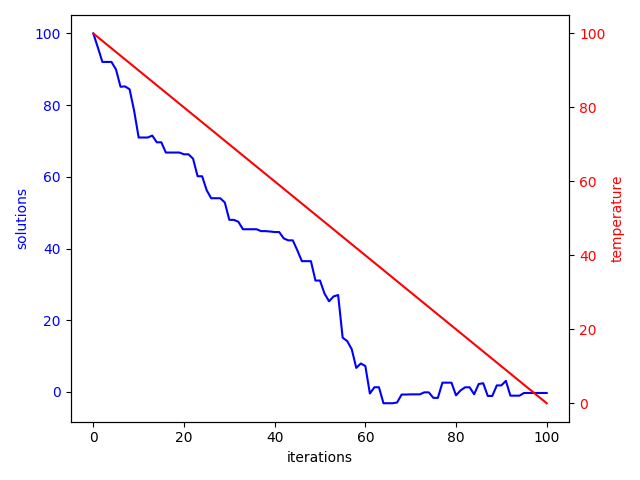
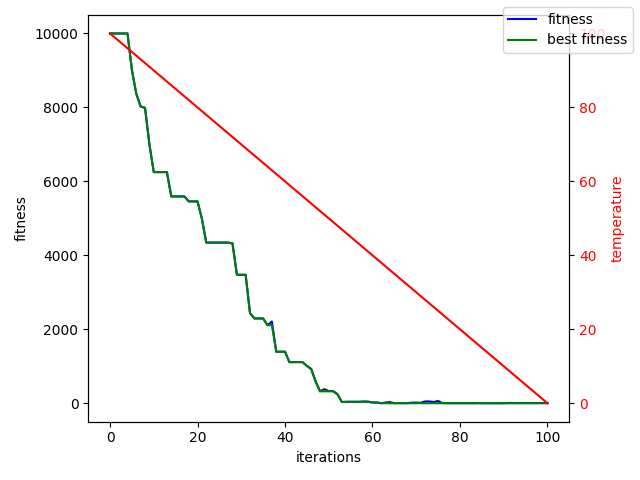
fixed and tested update to print_simulated_annealing to also plot best fitness from history

diff --git a/simulated_annealing.py b/simulated_annealing.py
@@ -35,10 +35,19 @@ def print_simulated_annealing(solutions, fitnesses, temperatures, filename):
     best_fitness_color = 'green'
     temperatures_color = 'red'
 
+    best_fitness = []
+    bf = None
+    for f in fitnesses:
+        if bf is None or f < bf:
+            bf = f 
+        best_fitness.append(bf)
+
     ax1.set_xlabel('iterations')
-    ax1.set_ylabel('fitness', color=fitness_color)
-    ax1.plot(solutions, color='blue')
-    ax1.tick_params(axis='y', labelcolor=fitness_color)
+    ax1.set_ylabel('fitness')
+    ax1.plot(fitnesses, color=fitness_color, label='fitness')
+    ax1.plot(best_fitness, color=best_fitness_color, label='best fitness')
+    fig.legend()
+    ax1.tick_params(axis='y')
 
     ax2 = ax1.twinx()
     ax2.set_ylabel('temperature', color=temperatures_color)
@@ -47,20 +56,8 @@ def print_simulated_annealing(solutions, fitnesses, temperatures, filename):
     fig.tight_layout()
     fig.savefig(filename)
 
-    best_fitness = []
-    bf = None
-    for f in fitnesses:
-        if bf is None or f < bf:
-            bf = f 
-        best_fitness.append(bf)
-
-    ax3 = ax1.twinx()
-    ax3.set_ylabel('best fitness', color=best_fitness_color)
-    ax3.plot(best_fitness, color=best_fitness_color)
-    ax3.tick_params(axis='y', labelcolor=best_fitness_color)
-    fig.tight_layout()
-    fig.savefig(filename)
 
     print("Final Solution: ", solutions[-1], " Fitness: ", fitnesses[-1])
     print("Best Solution: ", solutions[np.argmin(fitnesses)], " Fitness: ", min(fitnesses))
+    
 
